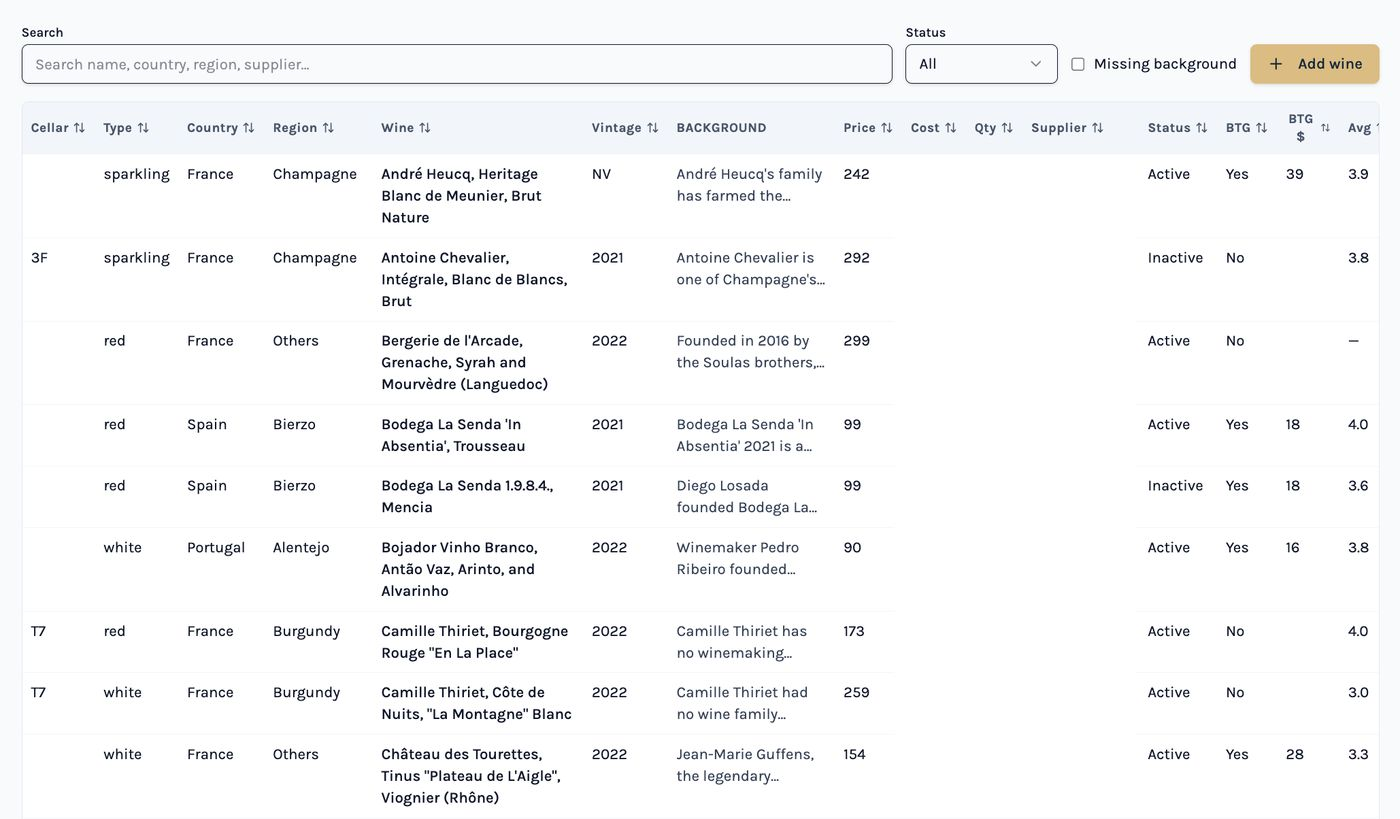
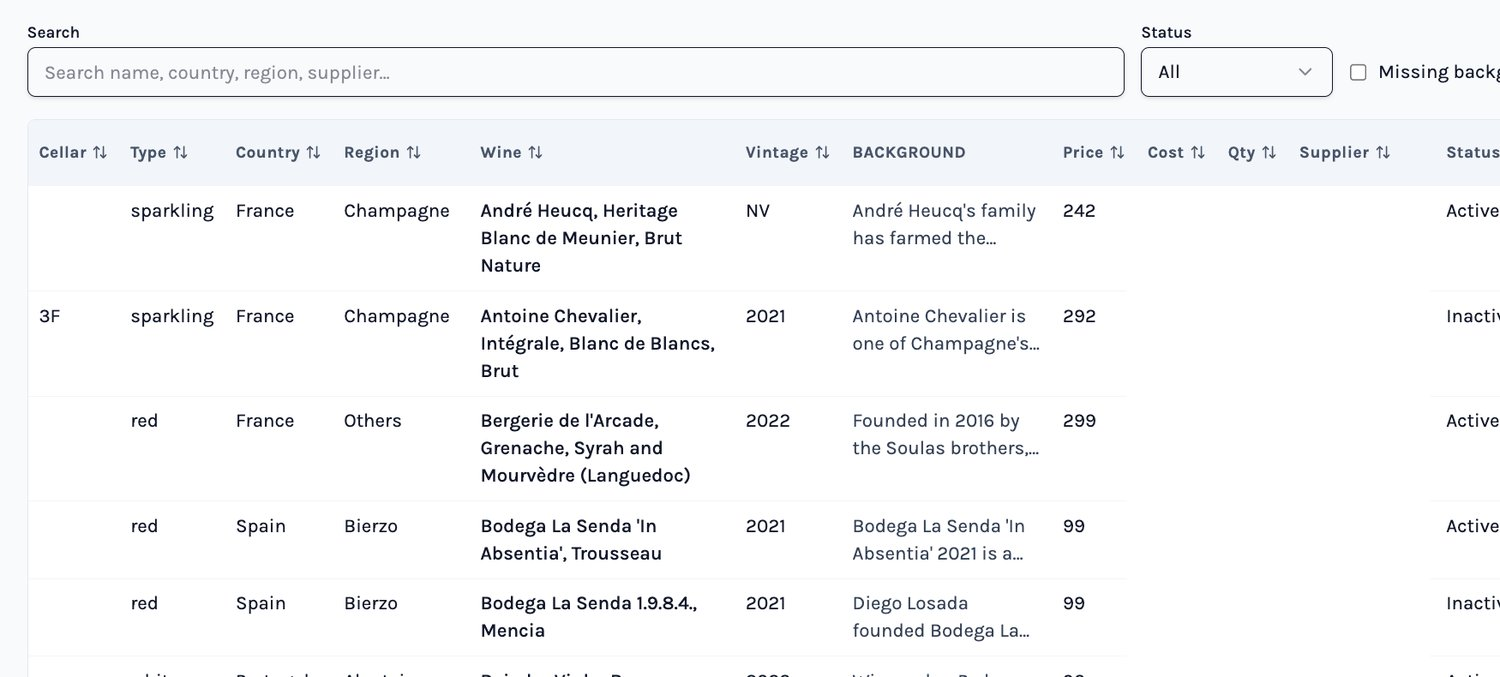
Enlarge and recrop proof section screenshots

diff --git a/index.html b/index.html
@@ -500,7 +500,8 @@
       pointer-events: none;
     }
 
-    .proof-inner { position: relative; display: grid; grid-template-columns: 1fr 1.2fr; gap: 6rem; align-items: center; }
+    .proof-inner { position: relative; }
+    .proof-text { max-width: 46rem; margin-bottom: 4rem; }
 
     .proof-heading {
       font-size: clamp(2.4rem, 3.6vw, 4rem);
@@ -514,7 +515,24 @@
     .proof-body { font-size: 0.95rem; line-height: 1.9; color: var(--gray); margin-bottom: 1.4rem; }
     .proof-body strong { color: var(--blush); font-weight: 500; }
 
-    .proof-shots { display: grid; grid-template-columns: 1fr 1fr; gap: 1.2rem; }
+    .proof-shots { display: grid; grid-template-columns: 1fr 1fr; gap: 2rem; }
+
+    .proof-shot-frame {
+      aspect-ratio: 4/3;
+      overflow: hidden;
+      border: 1px solid var(--border);
+      background: #000;
+    }
+
+    .proof-shot-frame img {
+      width: 100%;
+      height: 100%;
+      object-fit: cover;
+      object-position: top left;
+      display: block;
+      border: none;
+      filter: saturate(0.9);
+    }
 
     /* ─── FOUNDER ─── */
     #founder {
@@ -1004,7 +1022,8 @@
       .build-card { border-right: 1px solid var(--border); border-bottom: none; }
       .build-card:last-child { border-bottom: 1px solid var(--border); }
 
-      .proof-inner { grid-template-columns: 1fr; gap: 3rem; }
+      .proof-shots { grid-template-columns: 1fr; gap: 1.5rem; }
+      .proof-text { margin-bottom: 2.5rem; }
       .how-steps { grid-template-columns: 1fr 1fr; gap: 2rem; }
       .how-pricing { grid-template-columns: 1fr; gap: 1.5rem; padding: 2rem; }
 
@@ -1213,7 +1232,7 @@
 <!-- PROOF -->
 <section id="proof">
   <div class="proof-inner">
-    <div>
+    <div class="proof-text">
       <div class="section-label reveal">Proof</div>
       <h2 class="proof-heading reveal">We built this for<br><em>ourselves first.</em></h2>
       <p class="proof-body reveal reveal-delay-1">
@@ -1225,11 +1244,15 @@
     </div>
     <div class="proof-shots">
       <div class="reveal reveal-delay-1">
-        <img class="shot-img" src="images/wine-list.jpg" alt="Guest-facing wine list on a phone" loading="lazy">
+        <div class="proof-shot-frame">
+          <img src="images/wine-list.jpg" alt="Guest-facing wine list on a phone" loading="lazy">
+        </div>
         <p class="shot-caption">What the guest sees</p>
       </div>
       <div class="reveal reveal-delay-2">
-        <img class="shot-img" src="images/cellar-admin.jpg" alt="Cellar and inventory admin view" loading="lazy">
+        <div class="proof-shot-frame">
+          <img src="images/cellar-admin.jpg" alt="Cellar and inventory admin view" loading="lazy">
+        </div>
         <p class="shot-caption">What the team sees</p>
       </div>
     </div>
